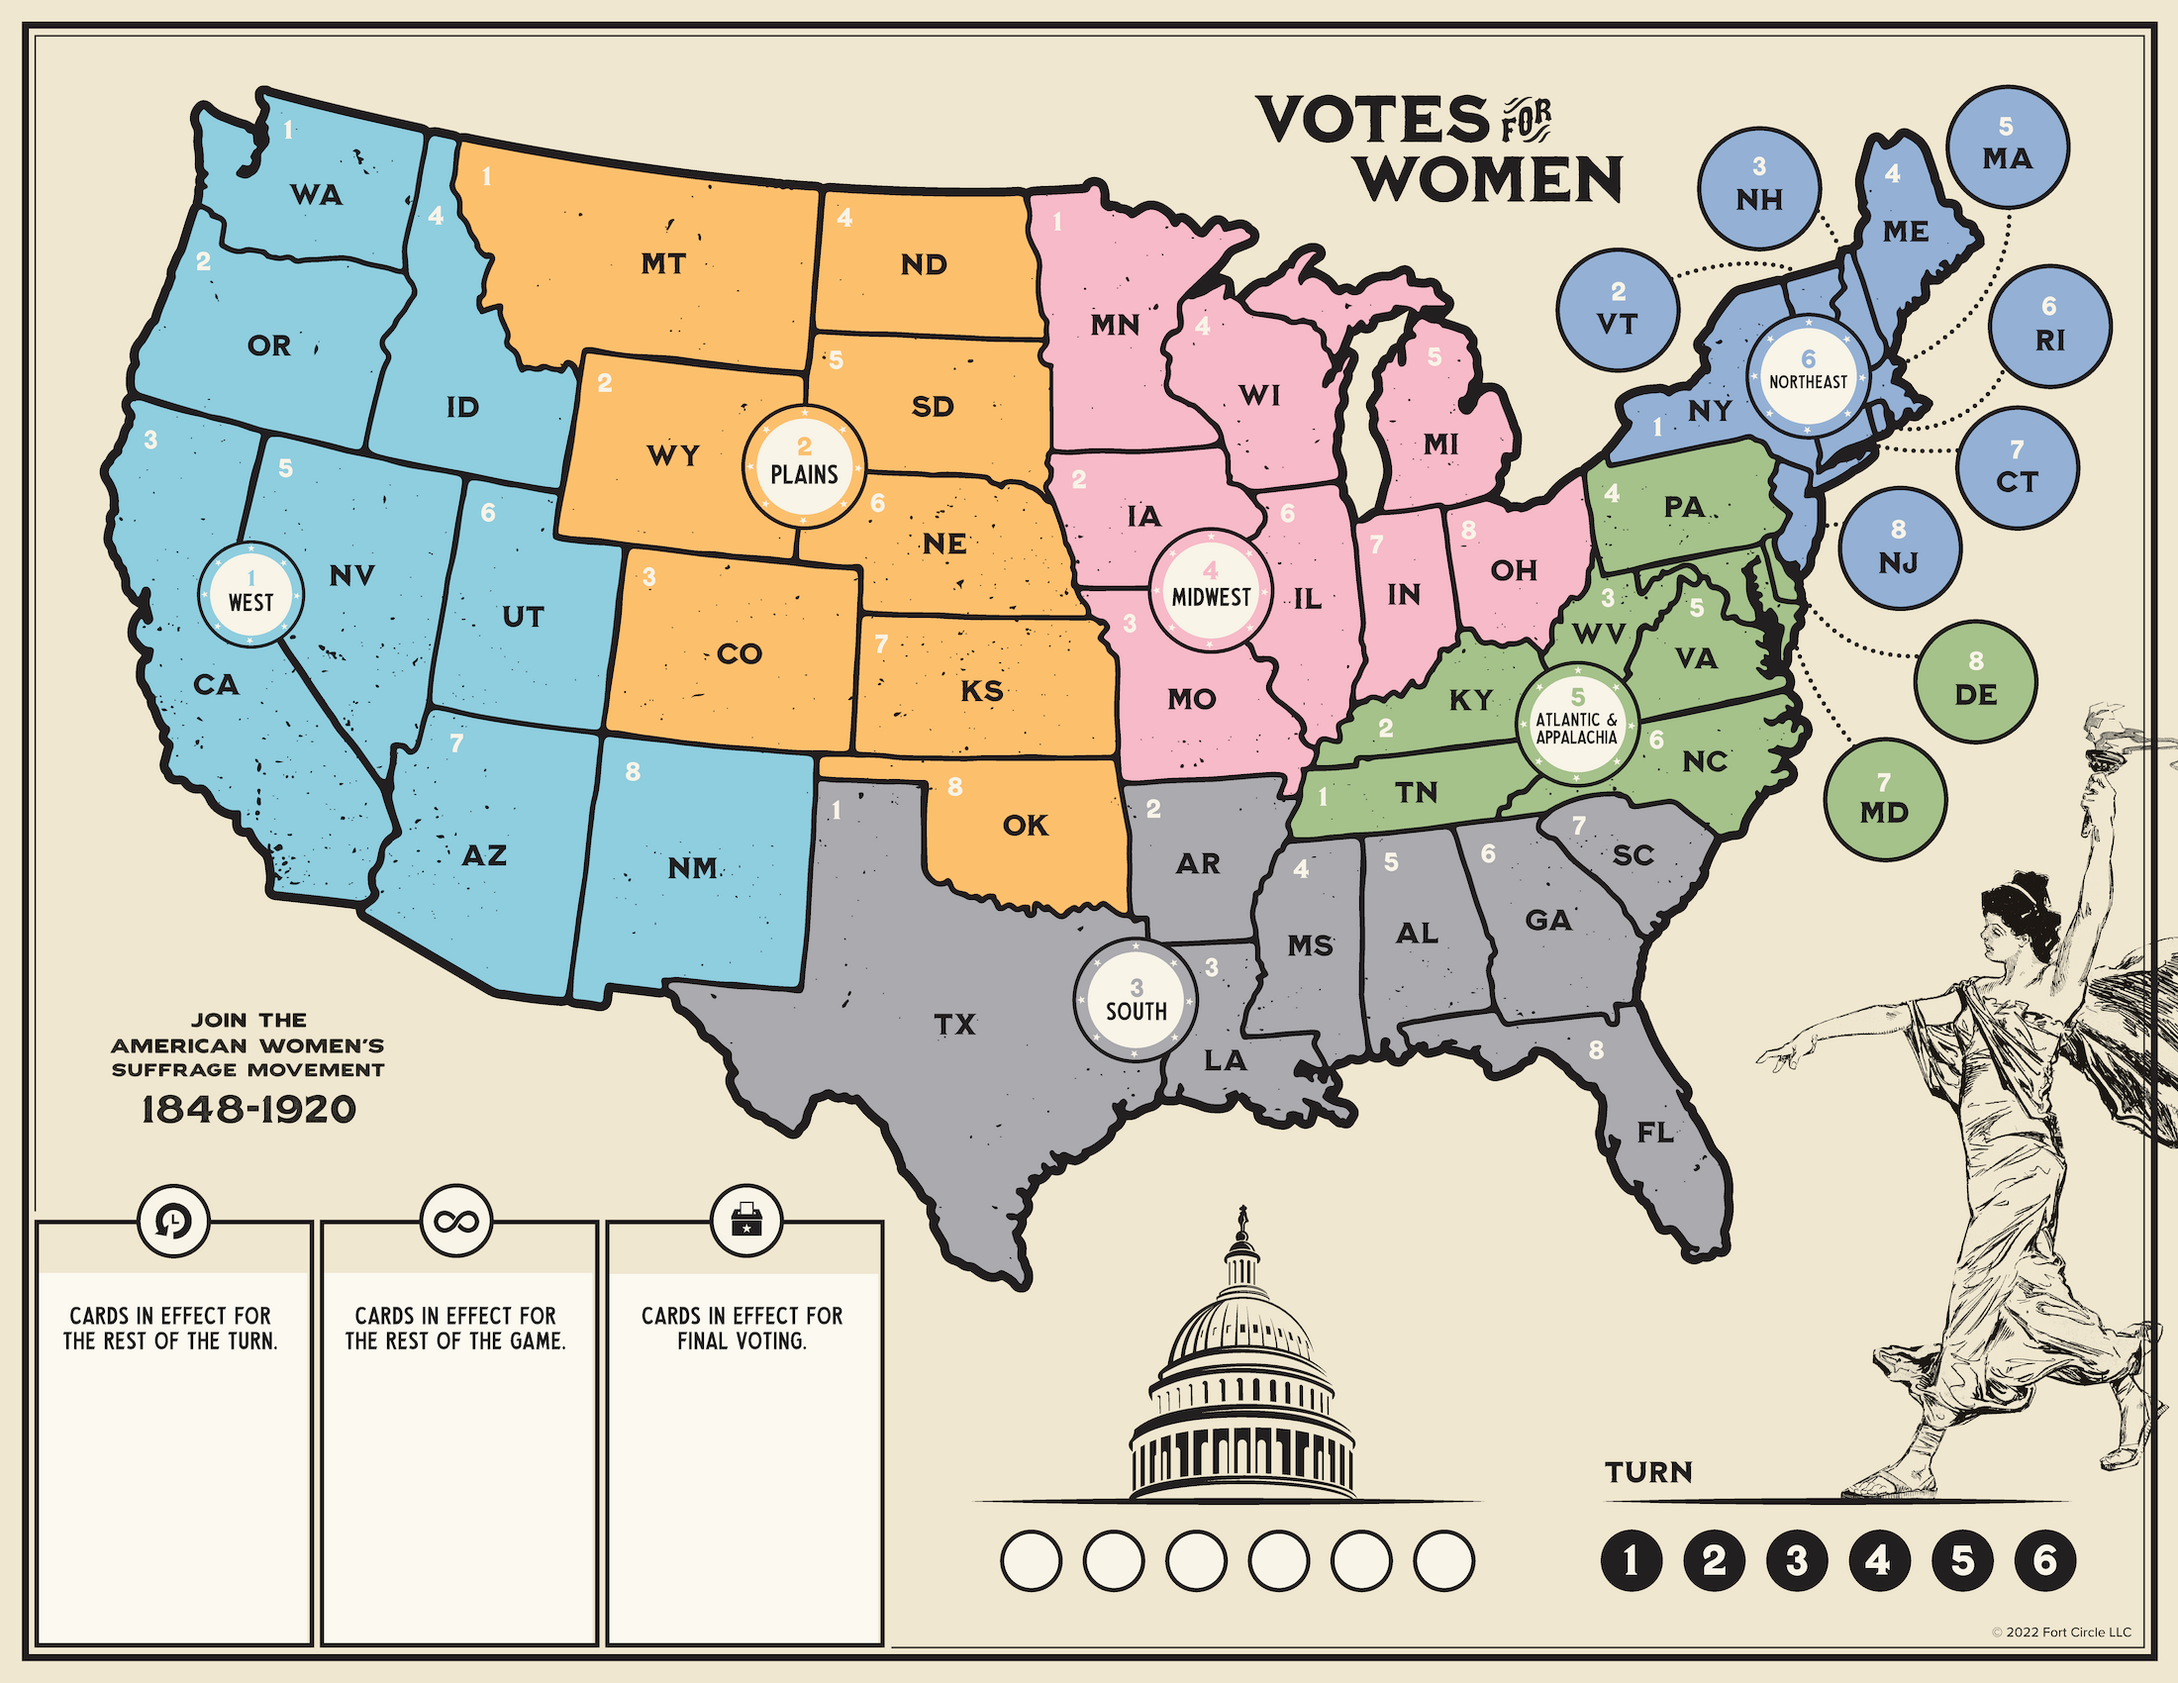
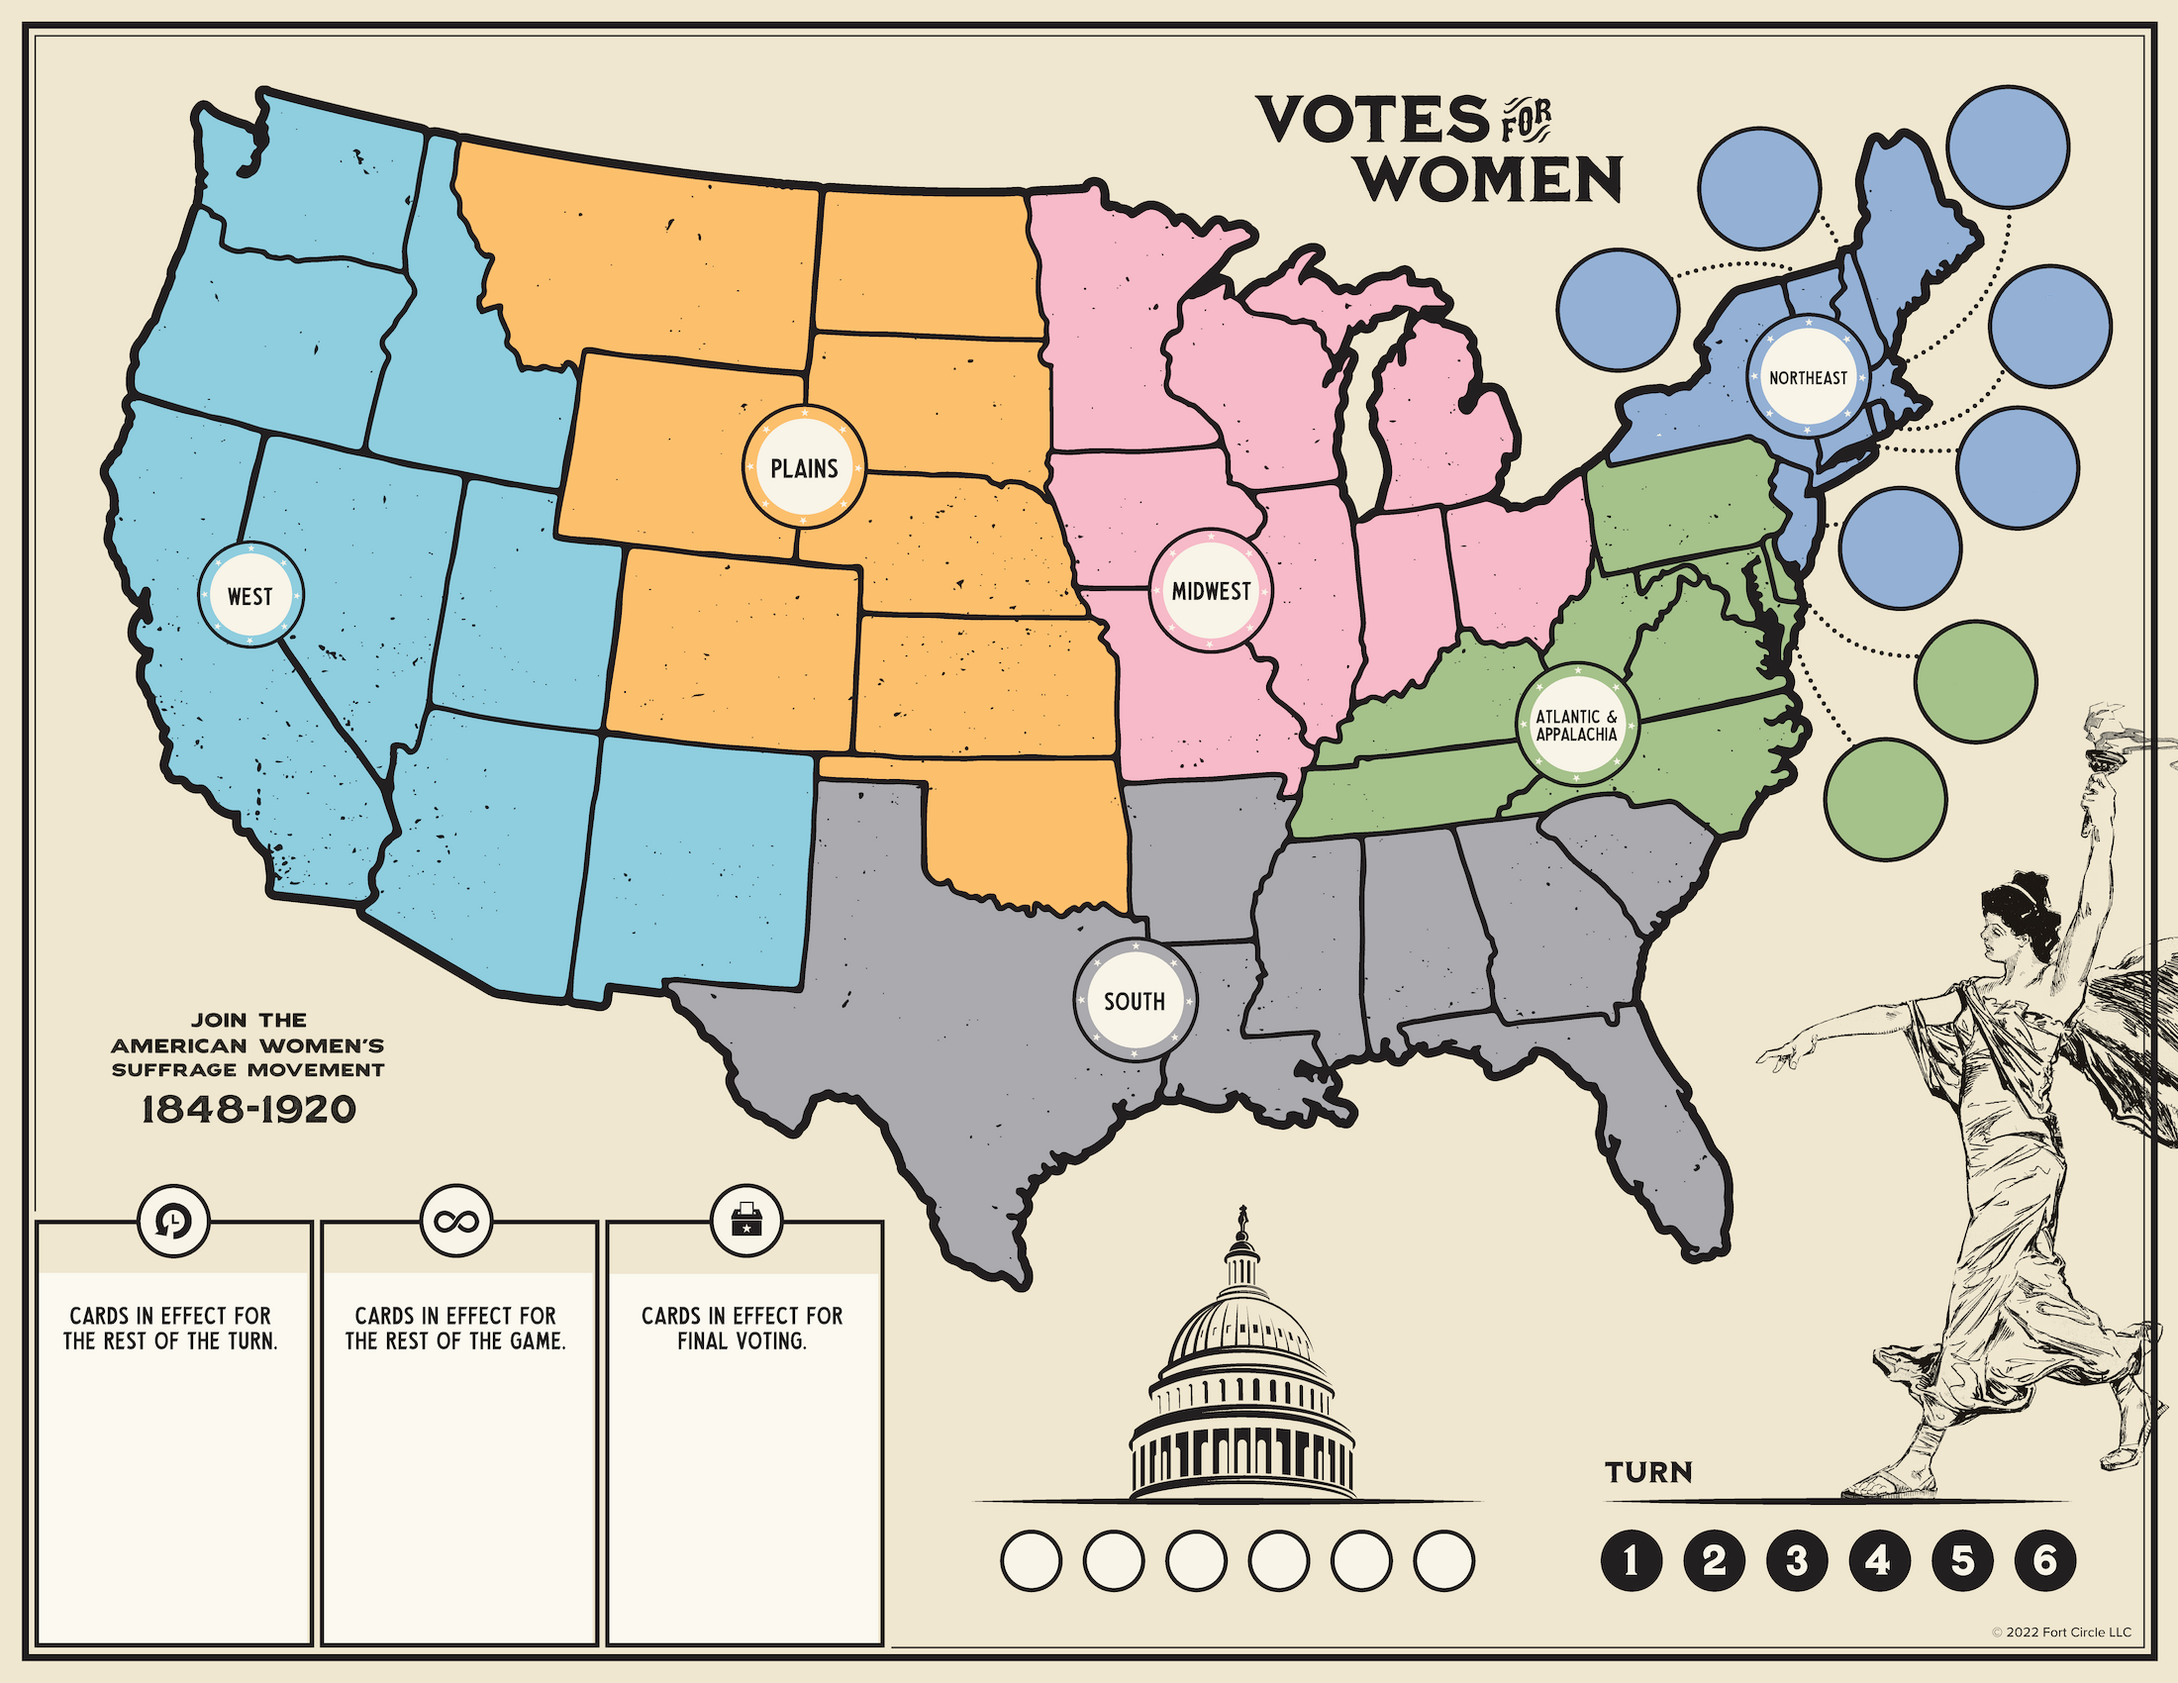
Remove labels from map graphic and recreate in HTML.

diff --git a/play.html b/play.html
@@ -15,6 +15,17 @@
 <script defer src="play.js"></script>
 <style>
 
+@font-face {
+	font-family: CopperplateCC;
+	src: url(fonts/CopperplateCC/CopperplateCC-Heavy.woff2) format('woff2')
+}
+
+@font-face {
+	font-family: CopperplateCC;
+	font-weight: bold;
+	src: url(fonts/CopperplateCC/CopperplateCC-Bold.woff2) format('woff2')
+}
+
 :root {
 	--suf-75: hsl(273 39% 75%);
 	--suf-85: hsl(273 39% 85%);
@@ -200,15 +211,8 @@ path.state.northeast { fill: royalblue }
 path.state.atlantic { fill: green }
 path.state.south { fill: #444 }
 
-div.state { opacity: 0% }
-div.state.action { opacity: 70% }
-div.state.west { background-color: teal }
-div.state.plains { background-color: chocolate }
-div.state.midwest { background-color: brown }
-div.state.northeast { background-color: royalblue }
-div.state.atlantic { background-color: green }
-div.state.south { background-color: #444 }
-
+div.state.action.northeast { background-color: #4169e1b3 }
+div.state.action.atlantic { background-color: #008000b3 }
 
 path.state.selected {
 	stroke: yellow;
@@ -228,6 +232,32 @@ div.state {
 	border: 5px solid transparent;
 	width: 62px;
 	height: 62px;
+
+	color: black;
+	font-family: CopperplateCC;
+	font-weight: bold;
+	font-size: 14px;
+	text-align: center;
+	line-height: 52px;
+}
+
+div.label {
+	pointer-events: none;
+	color: #222;
+	position: absolute;
+	font-family: CopperplateCC;
+	font-weight: bold;
+	font-size: 14px;
+	text-align: center;
+	line-height: 14px;
+	width: 50px;
+	height: 14px;
+}
+
+div.label.large {
+	font-size: 15px;
+	line-height: 15px;
+	height: 15px;
 }
 
 div.state.selected {
@@ -1068,6 +1098,56 @@ c5 3 13 7 17 8 8 2 9 3 11 12 1 5 5 12 8 16 5 8 5 8 3 22 l-3 14 -30 -1 c-35
 		<div id="NJ" class="northeast state" style="top:246px;left:929px;"></div>
 		<div id="DE" class="atlantic state" style="top:313px;left:967px;"></div>
 		<div id="MD" class="atlantic state" style="top:373px;left:921px;"></div>
+
+		<div class="label large" style="top:270px;left:935px">NJ</div>
+		<div class="label large" style="top:230px;left:994px">CT</div>
+		<div class="label large" style="top:158px;left:1011px">RI</div>
+		<div class="label large" style="top:67px;left:989px">MA</div>
+		<div class="label large" style="top:89px;left:864px">NH</div>
+		<div class="label large" style="top:150px;left:792px">VT</div>
+		<div class="label large" style="top:338px;left:972px">DE</div>
+		<div class="label large" style="top:397px;left:927px">MD</div>
+
+		<div class="label" style="top:112px;left:938px">ME</div>
+		<div class="label" style="top:200px;left:838px">NY</div>
+		<div class="label" style="top:377px;left:837px">NC</div>
+		<div class="label" style="top:325px;left:832px">VA</div>
+		<div class="label" style="top:250px;left:824px">PA</div>
+		<div class="label" style="top:312px;left:782px">WV</div>
+		<div class="label" style="top:346px;left:718px">KY</div>
+		<div class="label" style="top:394px;left:691px">TN</div>
+		<div class="label" style="top:281px;left:739px">OH</div>
+		<div class="label" style="top:293px;left:684px">IN</div>
+		<div class="label" style="top:296px;left:636px">IL</div>
+		<div class="label" style="top:217px;left:703px">MI</div>
+		<div class="label" style="top:191px;left:611px">WI</div>
+		<div class="label" style="top:347px;left:577px">MO</div>
+		<div class="label" style="top:254px;left:553px">IA</div>
+		<div class="label" style="top:157px;left:537px">MN</div>
+		<div class="label" style="top:565px;left:810px">FL</div>
+		<div class="label" style="top:425px;left:802px">SC</div>
+		<div class="label" style="top:458px;left:756px">GA</div>
+		<div class="label" style="top:463px;left:690px">AL</div>
+		<div class="label" style="top:470px;left:637px">MS</div>
+		<div class="label" style="top:529px;left:594px">LA</div>
+		<div class="label" style="top:429px;left:580px">AR</div>
+		<div class="label" style="top:509px;left:457px">TX</div>
+		<div class="label" style="top:410px;left:494px">OK</div>
+		<div class="label" style="top:341px;left:472px">KS</div>
+		<div class="label" style="top:266px;left:452px">NE</div>
+		<div class="label" style="top:198px;left:446px">SD</div>
+		<div class="label" style="top:127px;left:443px">ND</div>
+		<div class="label" style="top:324px;left:349px">CO</div>
+		<div class="label" style="top:222px;left:316px">WY</div>
+		<div class="label" style="top:126px;left:310px">MT</div>
+		<div class="label" style="top:432px;left:325px">NM</div>
+		<div class="label" style="top:425px;left:220px">AZ</div>
+		<div class="label" style="top:303px;left:239px">UT</div>
+		<div class="label" style="top:283px;left:154px">NV</div>
+		<div class="label" style="top:198px;left:208px">ID</div>
+		<div class="label" style="top:339px;left:84px">CA</div>
+		<div class="label" style="top:166px;left:110px">OR</div>
+		<div class="label" style="top:90px;left:133px">WA</div>
 
 		<div id="West" class="region" style="top:272px;left:98px;width:57px;height:57px;"></div>
 		<div id="Plains" class="region" style="top:202px;left:373px;"></div>

diff --git a/fonts/CopperplateCC/README.md b/fonts/CopperplateCC/README.md
@@ -1,0 +1,40 @@
+Copperplate CC
+========
+![Picture](https://raw.githubusercontent.com/CowboyCollective/CopperplateCC/master/sources/References/Title.png)
+Copperplate CC is a Copperplate Gothic revival designed by indestructible type* for the Cowboy Collective 
+
+Copperplate CC is designed and maintained by [Owen Earl](https://ewonrael.github.io/), who is the creator of the font foundry [indestructible type*](http://indestructible-type.github.io) and founding member of the [Cowboy Collective](cowboycollective.cc/).
+
+About
+-----
+Designed by Frederic Goudy in 1902, Copperplate Gothic is an American classic. The mix of simple capital letterforms with delicate serifs feels both sturdy and refined. It has made its way onto business cards, bank windows, and high quality mustard labels.
+
+indestructible type* is joining the Cowboy Collective by making free and open-source digital revivals of classic American typefaces. Copperplate Gothic is a perfect starting place because despite its ubiquity and public domain nature, a free digital revival has yet to be made.
+
+For this project I went back to the source materials. Unfortunately the original drawings were lost in a 1939 fire, but the American Type Founder catalogues from that era provide some insight into the Goudy's design. I wanted to stay true to the source material, so this digitization differs from other versions. Unlike some, there are no small caps by default, as this was not originally present. The serifs are also smaller then most reproductions, and I have elected to keep the somewhat bizarre naming convention that calls the non bold version "heavy".
+
+In some ways this Copperplate is not the one we are all familiar with, but perhaps it is more true to the 1900s spirit.
+
+![Characters](https://raw.githubusercontent.com/CowboyCollective/CopperplateCC/master/sources/References/Specimin.png)
+
+Changelog
+---------
+<b>1.0</b>
+Initial release
+
+Building the Font.
+---------------------------
+Copperplate CC is licensed under the [SIL open type license](http://scripts.sil.org/cms/scripts/page.php?site_id=nrsi&id=OFL), meaning that it is free to use and modify. If you'd like to build this font yourself using the source code, follow the following instructions.
+
+1. Download the complete source code, either by cloning this repository or downloading the .zip file.
+
+2. Download and install:<br>
+**fontmake** which can be found [here](https://github.com/googlei18n/fontmake)<br>
+**gftools** which can be found [here](https://github.com/googlefonts/gftools)<br>
+**ttfautohint** which can be found [here](https://www.freetype.org/ttfautohint/)<br>
+
+3. Run the build.sh script located in the "scripts" folder. This should make the complete font.
+
+Contact
+-------
+If you have questions or want to help out, send me and email at indestructibletype@gmail.com
